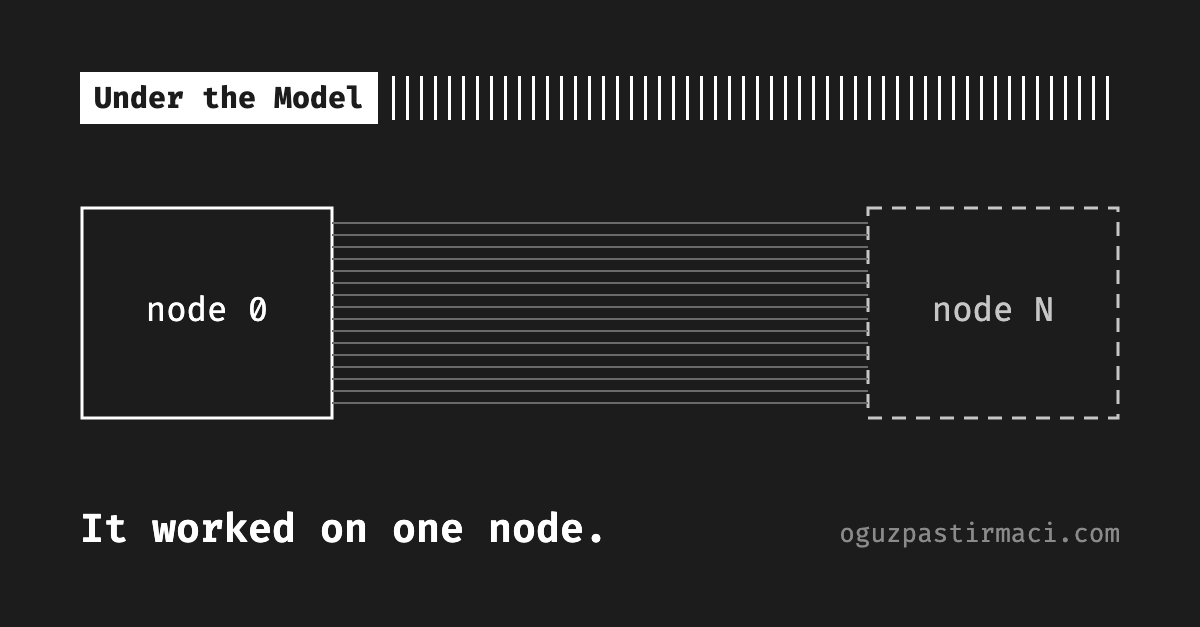
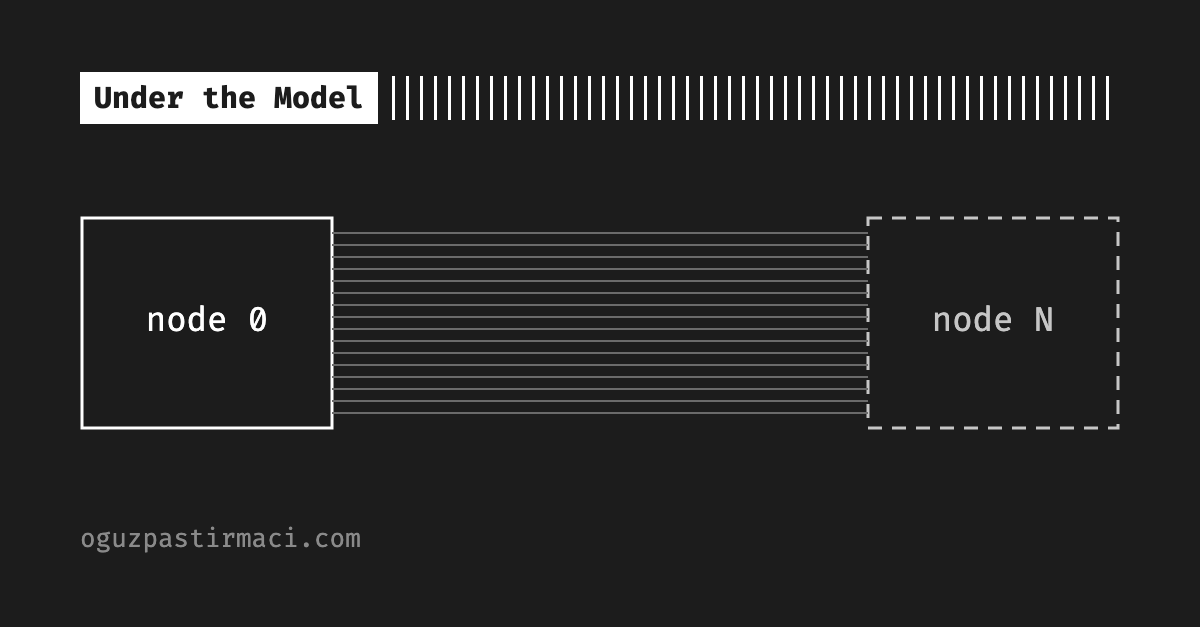
New tagline and preview card without it

diff --git a/content/_index.md b/content/_index.md
@@ -1,4 +1,4 @@
 +++
 +++
 
-It worked on one node.
+Notes on GPUs, RDMA, Kubernetes and distributed training.
